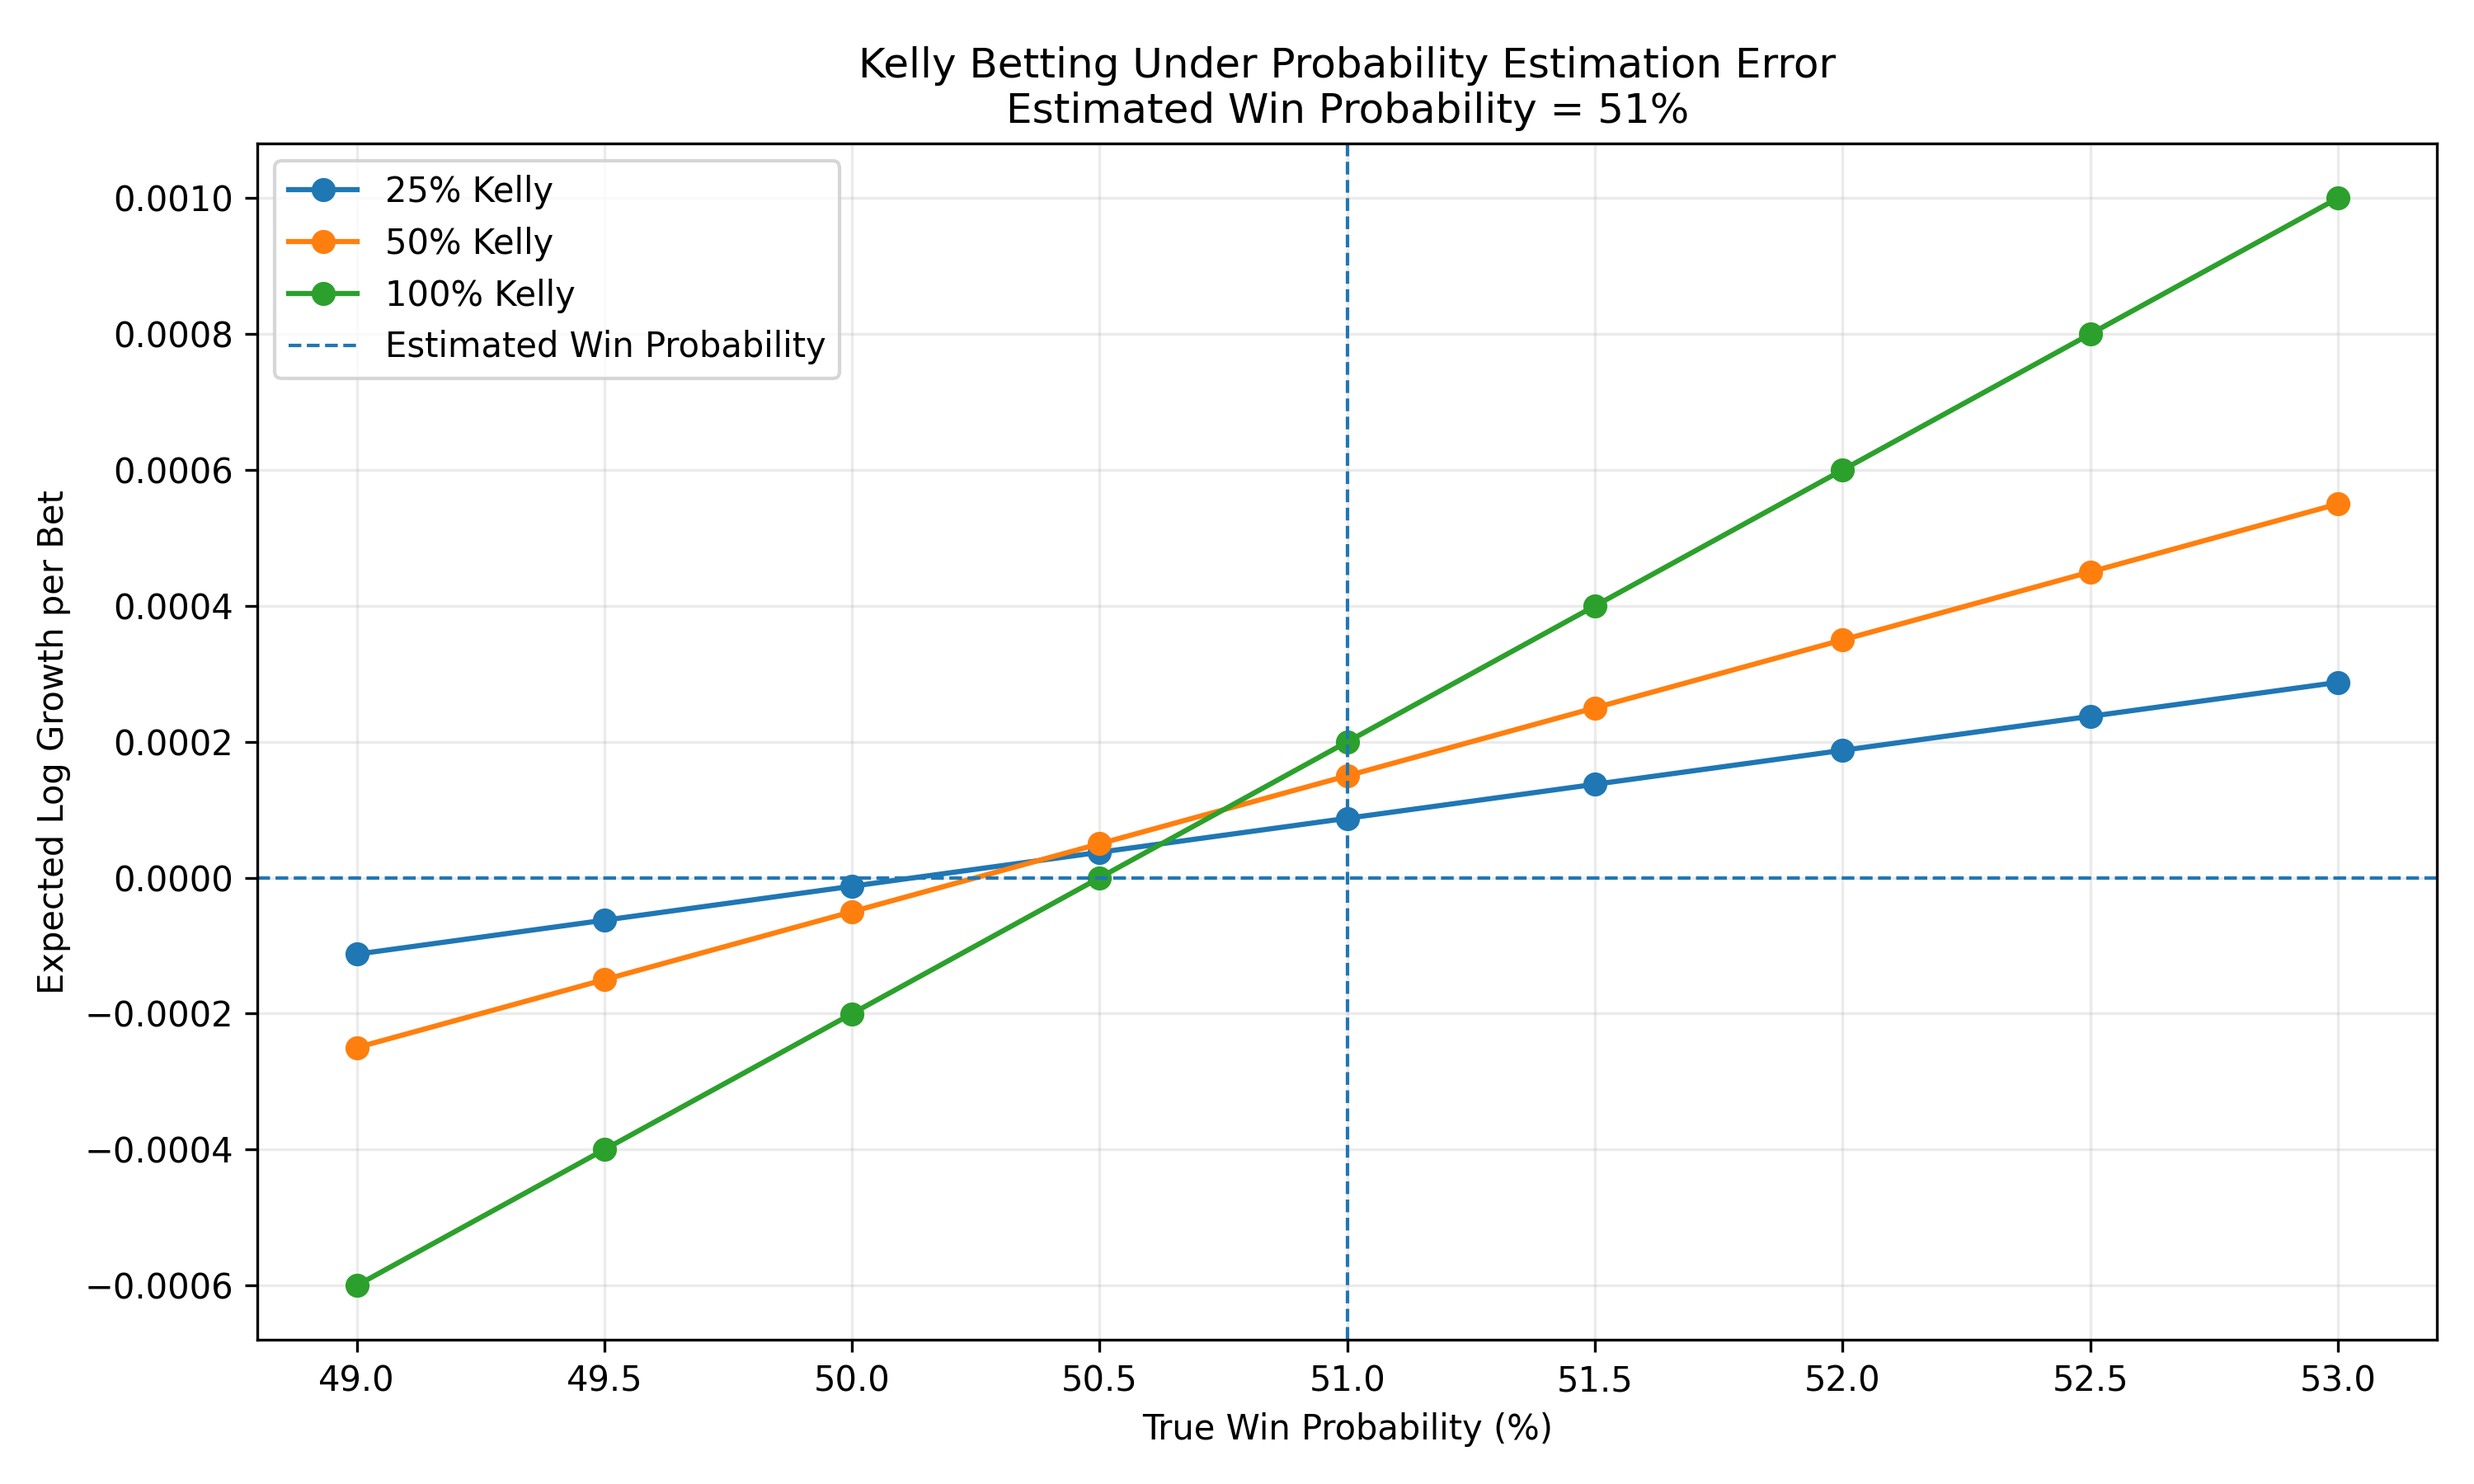
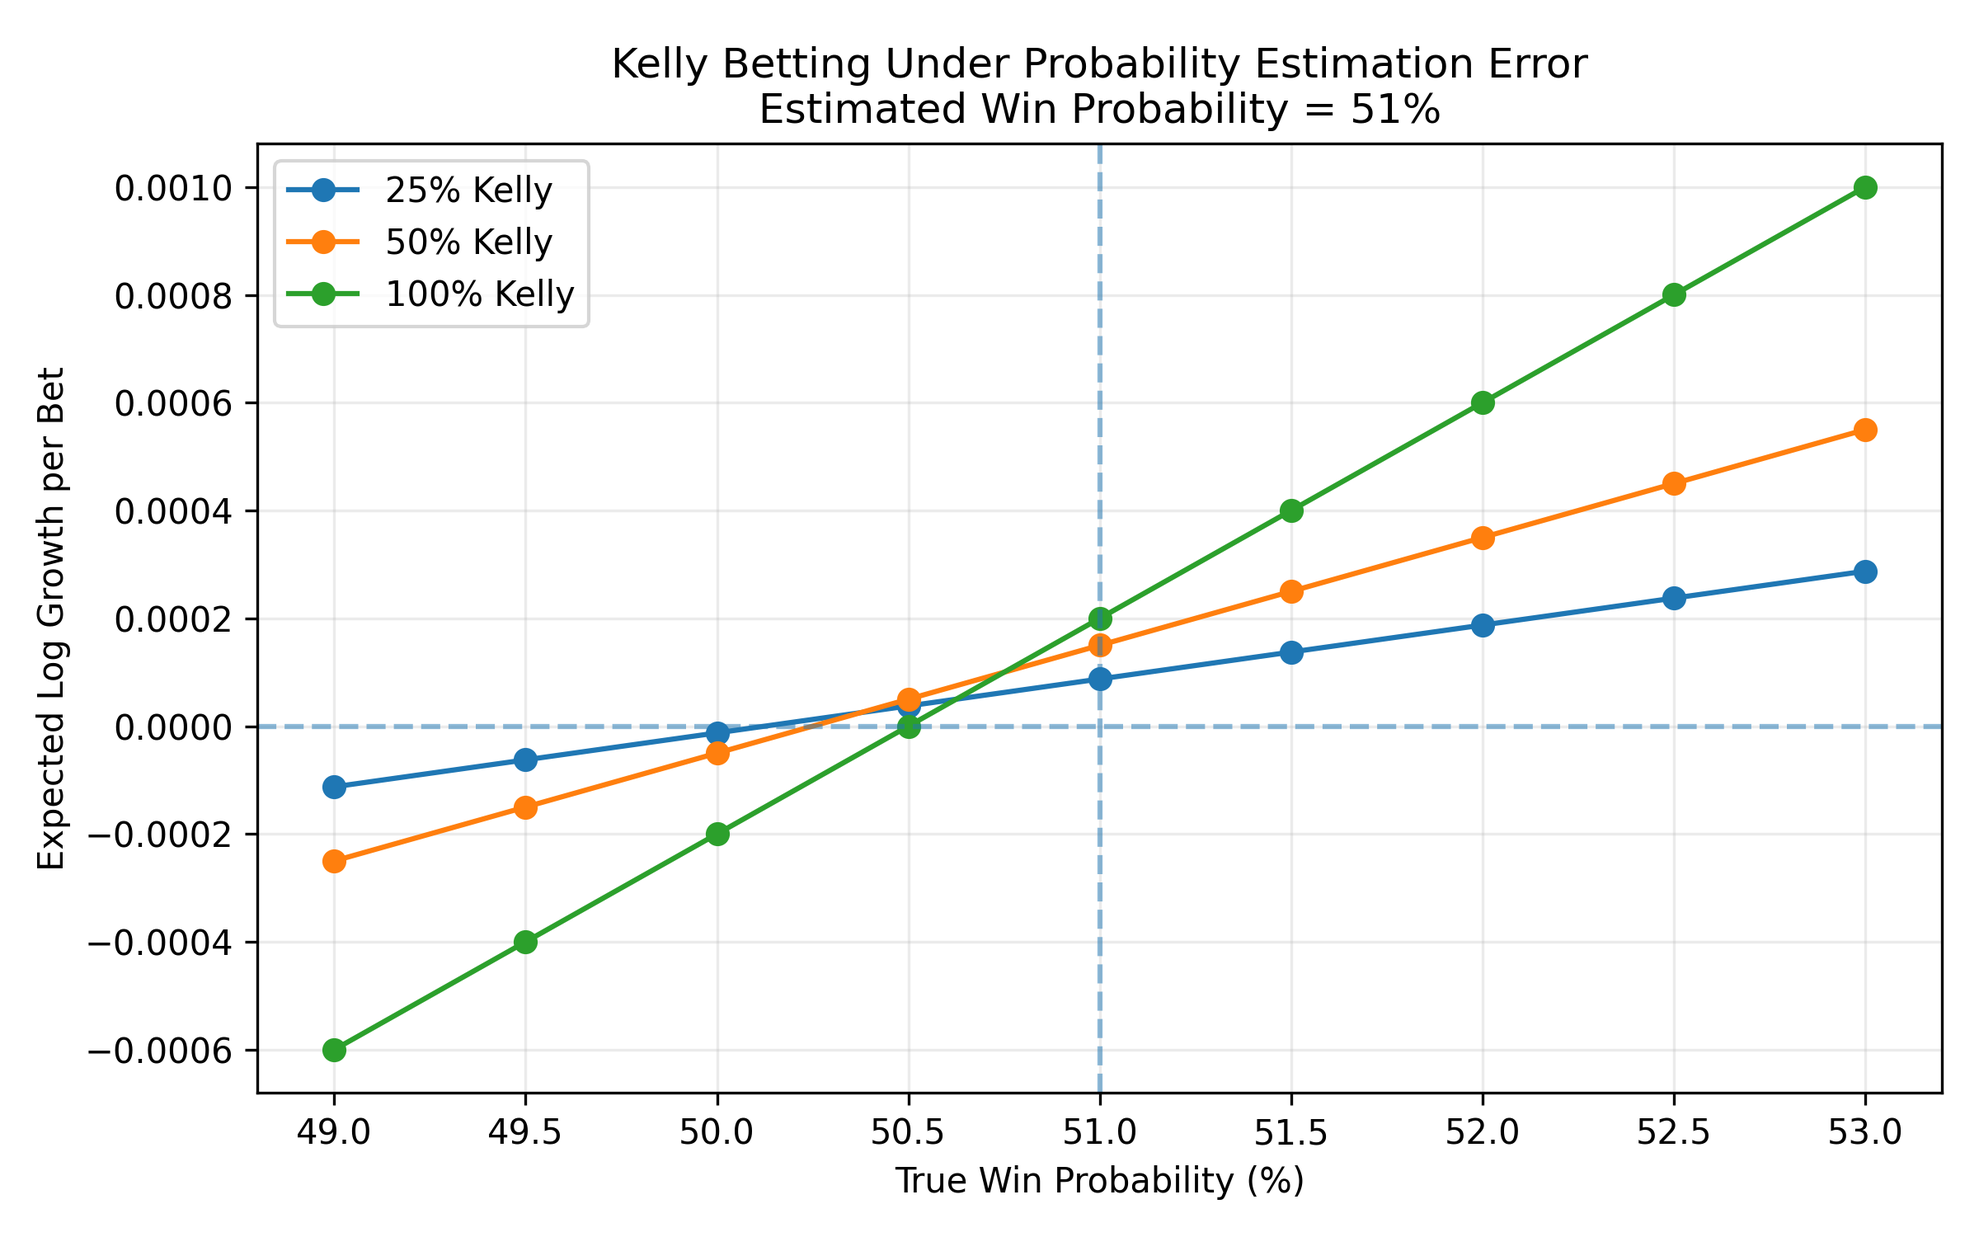
Cleaned up main.py file

diff --git a/main.py b/main.py
@@ -1,5 +1,6 @@
 import random
 import math
+import os
 import matplotlib.pyplot as plt
 
 
@@ -161,7 +162,6 @@ def estimation_error_experiment(
 
     for true_probability in true_probabilities:
         for multiplier in kelly_multipliers:
-
             bet_fraction = fractional_kelly(
                 estimated_probability,
                 multiplier
@@ -190,6 +190,134 @@ def estimation_error_experiment(
             })
 
     return results
+
+
+def plot_kelly_growth_curve(win_probability):
+    bet_fractions = [
+        i / 1000
+        for i in range(1, 101)
+    ]
+
+    log_growth_values = [
+        expected_log_growth(
+            fraction,
+            win_probability
+        )
+        for fraction in bet_fractions
+    ]
+
+    optimal_fraction = kelly_fraction(
+        win_probability
+    )
+
+    plt.figure(figsize=(8, 5))
+
+    plt.plot(
+        [f * 100 for f in bet_fractions],
+        log_growth_values
+    )
+
+    plt.axhline(
+        0,
+        linestyle="--",
+        alpha=.5
+    )
+
+    plt.axvline(
+        optimal_fraction * 100,
+        linestyle="--",
+        alpha=.5,
+        label=f"Kelly Fraction = {optimal_fraction:.1%}"
+    )
+
+    plt.xlabel("Bet Fraction (%)")
+    plt.ylabel("Expected Log Growth per Bet")
+
+    plt.title(
+        "Expected Log Growth vs. Bet Size\n"
+        f"{win_probability:.0%} Win Probability"
+    )
+
+    plt.legend()
+    plt.grid(alpha=.25)
+    plt.tight_layout()
+
+    plt.savefig(
+        "figures/kelly_growth_curve.png",
+        dpi=300
+    )
+
+    plt.close()
+
+
+def plot_estimation_error(results, estimated_probability):
+    multipliers = sorted(
+        set(
+            result["kelly_multiplier"]
+            for result in results
+        )
+    )
+
+    plt.figure(figsize=(8, 5))
+
+    for multiplier in multipliers:
+        strategy_results = [
+            result
+            for result in results
+            if result["kelly_multiplier"] == multiplier
+        ]
+
+        strategy_results.sort(
+            key=lambda result: result["true_probability"]
+        )
+
+        probabilities = [
+            result["true_probability"] * 100
+            for result in strategy_results
+        ]
+
+        growth_values = [
+            result["log_growth"]
+            for result in strategy_results
+        ]
+
+        plt.plot(
+            probabilities,
+            growth_values,
+            marker="o",
+            label=f"{multiplier:.0%} Kelly"
+        )
+
+    plt.axhline(
+        0,
+        linestyle="--",
+        alpha=.5
+    )
+
+    plt.axvline(
+        estimated_probability * 100,
+        linestyle="--",
+        alpha=.5
+    )
+
+    plt.xlabel("True Win Probability (%)")
+    plt.ylabel("Expected Log Growth per Bet")
+
+    plt.title(
+        "Kelly Betting Under Probability Estimation Error\n"
+        f"Estimated Win Probability = {estimated_probability:.0%}"
+    )
+
+    plt.legend()
+    plt.grid(alpha=.25)
+    plt.tight_layout()
+
+    plt.savefig(
+        "figures/kelly_estimation_error.png",
+        dpi=300
+    )
+
+    plt.close()
 
 
 def plot_drawdown_comparison(results):
@@ -228,17 +356,24 @@ def plot_drawdown_comparison(results):
     plt.tight_layout()
 
     plt.savefig(
-        "kelly_drawdown_comparison.png",
+        "figures/kelly_drawdown_comparison.png",
         dpi=300
     )
 
-    plt.show()
+    plt.close()
 
 
 def main():
+    random.seed(42)
+
+    os.makedirs(
+        "figures",
+        exist_ok=True
+    )
 
     starting_bankroll = 1000
     win_probability = .51
+    estimated_probability = .51
     num_bets = 1000
     sessions = 5001
 
@@ -248,13 +383,79 @@ def main():
         1.00
     ]
 
-    drawdown_results = []
+    true_probabilities = [
+        .49,
+        .495,
+        .50,
+        .505,
+        .51,
+        .515,
+        .52,
+        .525,
+        .53
+    ]
 
-    print("Fractional Kelly Risk Analysis")
+    print("Kelly Criterion Analysis")
+    print("-" * 60)
+
+    full_kelly = kelly_fraction(
+        win_probability
+    )
+
+    print(
+        f"Win Probability: {win_probability:.2%}"
+    )
+
+    print(
+        f"Full Kelly Fraction: {full_kelly:.2%}"
+    )
+
+    print()
+
+    plot_kelly_growth_curve(
+        win_probability
+    )
+
+    estimation_results = estimation_error_experiment(
+        starting_bankroll,
+        estimated_probability,
+        true_probabilities,
+        num_bets,
+        sessions,
+        kelly_multipliers
+    )
+
+    plot_estimation_error(
+        estimation_results,
+        estimated_probability
+    )
+
+    print("Probability Estimation Error")
     print("-" * 60)
 
     for multiplier in kelly_multipliers:
+        bet_fraction = fractional_kelly(
+            estimated_probability,
+            multiplier
+        )
 
+        break_even = break_even_probability(
+            bet_fraction
+        )
+
+        print(
+            f"{multiplier:.0%} Kelly | "
+            f"Bet: {bet_fraction:.2%} | "
+            f"Break-Even True Probability: {break_even:.4%}"
+        )
+
+    print()
+    print("Fractional Kelly Risk Analysis")
+    print("-" * 60)
+
+    drawdown_results = []
+
+    for multiplier in kelly_multipliers:
         bet_fraction = fractional_kelly(
             win_probability,
             multiplier
@@ -285,6 +486,9 @@ def main():
     plot_drawdown_comparison(
         drawdown_results
     )
+
+    print()
+    print("Figures saved to figures/")
 
 
 if __name__ == "__main__":
